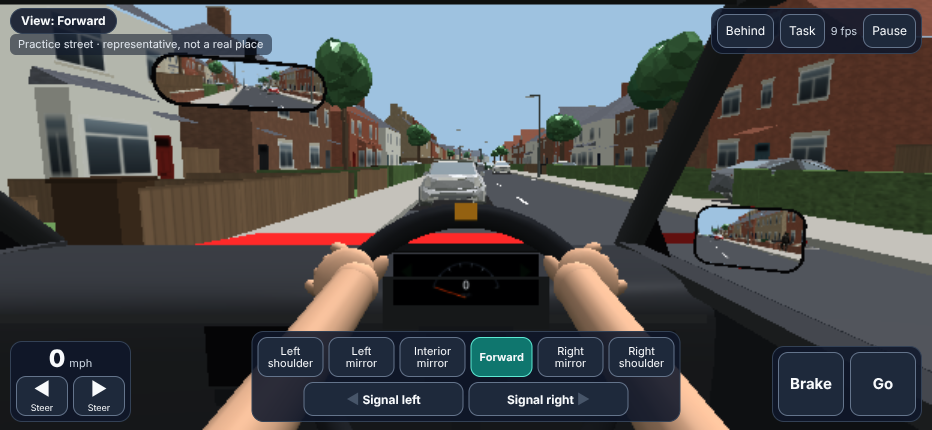
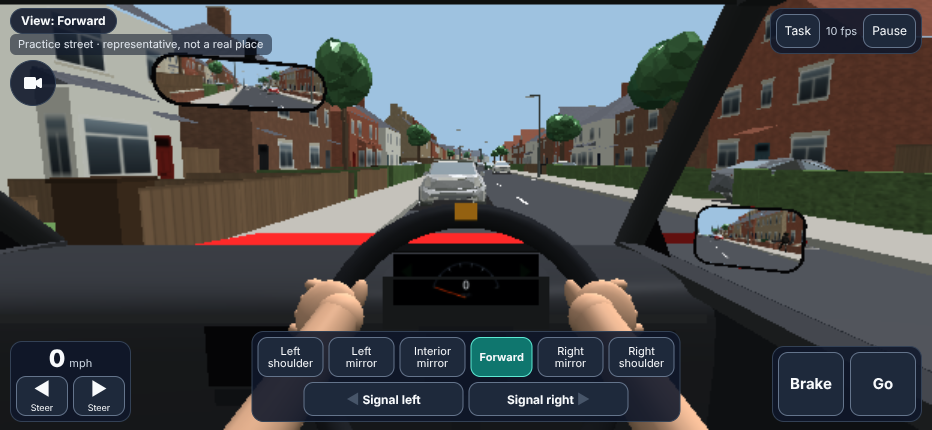
Hands low on the wheel sides; steer the car's own wheel from the seat
- Hands at about twenty to three, forearms rising from the bottom corners
  of the picture, as in a driving game's cockpit view.
- In the driver's seat there is no separate on-screen wheel: an
  invisible grab area lies over the car's steering wheel as drawn (placed
  each frame) and turning it steers. The separate wheel appears only in
  the behind-the-car view. G17 checks both.

Claude-Session: https://claude.ai/code/session_01QSE7HPWAFN7h7s95husGEt

diff --git a/src/app/main.ts b/src/app/main.ts
@@ -30,7 +30,7 @@ import {ROAD_USER_CAR_MODELS} from '../assets/carSpecs';
 import {BUS_MODELS,PANEL_VAN,type CarModelId} from '../assets/carSpecs';
 import {RouteSummary} from '../assessment/routeSummary';
 import {ViewPracticeSummary} from '../assessment/viewPractice';
-import {STEERING_RATIO,buildCockpit} from '../cockpit/cockpitModel';
+import {STEERING_RATIO,WHEEL_RIM,buildCockpit} from '../cockpit/cockpitModel';
 import {ALL_MIRRORS,Mirror} from '../cockpit/mirror';
 import {ObservationTracker,type ObservationSource,type ObservationTarget} from '../cockpit/observation';
 import {DriverHead} from '../cockpit/seat';
@@ -1181,30 +1181,45 @@ export async function boot():Promise<void>{
   byId('hud-ind-right').addEventListener('click',()=>onAction('indicator-right'));
   byId('hud-task-toggle').addEventListener('click',()=>hud.toggleTask());
   byId('hud-tilt-centre').addEventListener('click',()=>tilt.calibrate());
-  // On-screen wheel: the finger's angle around the wheel's centre turns it (one finger; others ignored).
+  // On-screen steering: the finger's angle around the wheel's centre turns it (one finger; others ignored). In the
+  // driver's seat the grab area lies over the car's own steering wheel; behind the car, the separate wheel is used.
   const wheelEl=byId('touch-wheel');
+  const wheelGrab=byId('wheel-grab');
   let wheelPointer:number|null=null;
-  const wheelAngle=(event:PointerEvent)=>{
-    const r=wheelEl.getBoundingClientRect();
-    return screenAngle(r.left+r.width/2,r.top+r.height/2,event.clientX,event.clientY);
+  for(const el of [wheelEl,wheelGrab]){
+    const angle=(event:PointerEvent)=>{
+      const r=el.getBoundingClientRect();
+      return screenAngle(r.left+r.width/2,r.top+r.height/2,event.clientX,event.clientY);
+    };
+    el.addEventListener('pointerdown',event=>{
+      event.preventDefault();
+      if(wheelPointer!==null)return;
+      wheelPointer=event.pointerId;
+      el.setPointerCapture(event.pointerId);
+      touchWheel.grab(angle(event));
+      wheelEl.classList.add('held');
+    });
+    el.addEventListener('pointermove',event=>{if(event.pointerId===wheelPointer)touchWheel.move(angle(event))});
+    const release=(event:PointerEvent)=>{
+      if(event.pointerId!==wheelPointer)return;
+      wheelPointer=null;
+      touchWheel.release();
+      wheelEl.classList.remove('held');
+    };
+    el.addEventListener('pointerup',release);
+    el.addEventListener('pointercancel',release);
+  }
+  /** Places the grab area over the car's steering wheel as drawn (its rim's screen circle, a little enlarged). */
+  const placeWheelGrab=()=>{
+    const m=cockpit.wheel.getWorldMatrix();
+    const view=camera.viewport.toGlobal(engine.getRenderWidth(),engine.getRenderHeight());
+    const project=(x:number,z:number)=>Vector3.Project(Vector3.TransformCoordinates(new Vector3(x,0,z),m),Matrix.IdentityReadOnly,scene.getTransformMatrix(),view);
+    const c=project(0,0),top=project(0,-WHEEL_RIM),side=project(WHEEL_RIM,0);
+    const k=canvas.clientWidth/engine.getRenderWidth();
+    const r=Math.max(Math.hypot(top.x-c.x,top.y-c.y),Math.hypot(side.x-c.x,side.y-c.y))*k*1.15;
+    const st=wheelGrab.style;
+    st.left=`${(c.x*k-r).toFixed(0)}px`;st.top=`${(c.y*k-r).toFixed(0)}px`;st.width=st.height=`${(2*r).toFixed(0)}px`;
   };
-  wheelEl.addEventListener('pointerdown',event=>{
-    event.preventDefault();
-    if(wheelPointer!==null)return;
-    wheelPointer=event.pointerId;
-    wheelEl.setPointerCapture(event.pointerId);
-    touchWheel.grab(wheelAngle(event));
-    wheelEl.classList.add('held');
-  });
-  wheelEl.addEventListener('pointermove',event=>{if(event.pointerId===wheelPointer)touchWheel.move(wheelAngle(event))});
-  const releaseWheel=(event:PointerEvent)=>{
-    if(event.pointerId!==wheelPointer)return;
-    wheelPointer=null;
-    touchWheel.release();
-    wheelEl.classList.remove('held');
-  };
-  wheelEl.addEventListener('pointerup',releaseWheel);
-  wheelEl.addEventListener('pointercancel',releaseWheel);
   const wheelRim=wheelEl.querySelector<HTMLElement>('.tw-rim')!;
   for(const button of document.querySelectorAll<HTMLButtonElement>('[data-hold]')){
     const control=button.dataset.hold as 'throttle'|'brake'|'left'|'right';
@@ -1286,6 +1301,7 @@ export async function boot():Promise<void>{
   const setBehind=(on:boolean)=>{
     behind=on;
     behindButton.setAttribute('aria-pressed',String(on));
+    document.body.classList.toggle('behind',on);
     behindButton.setAttribute('aria-label',on?'Camera: back to the driver\'s seat':'Camera: switch to behind the car');
     const label=byId('hud-view-label');
     if(on){label.textContent='View: Behind the car (not a driver\'s view)';label.classList.add('behind')}
@@ -1353,7 +1369,9 @@ export async function boot():Promise<void>{
     hudWheel.style.transform=wheelTurn;
     if(steeringMode==='wheel'){
       wheelRim.style.transform=`rotate(${touchWheel.turnDeg.toFixed(1)}deg)`;
-      wheelEl.setAttribute('aria-valuenow',String(Math.round(touchWheel.turnDeg/2.7)));
+      const value=String(Math.round(touchWheel.turnDeg/2.7));
+      wheelEl.setAttribute('aria-valuenow',value);wheelGrab.setAttribute('aria-valuenow',value);
+      if(!behind)placeWheelGrab();
     }
     // Turning right turns the wheel clockwise as the driver sees it.
     cockpit.setWheel(vehicle.state.steerAngle*STEERING_RATIO);

diff --git a/src/cockpit/cockpitModel.ts b/src/cockpit/cockpitModel.ts
@@ -26,8 +26,10 @@ export const STEERING_RATIO=4;
 
 /** How far (radians of wheel turn) the hands follow the wheel before they feed it through (pull-push). */
 export const HANDS_FOLLOW=1.2;
-/** Where the hands hold the rim when the wheel is centred: ten to two (60° either side of the top), in view above the dashboard edge. */
-const GRIP=Math.PI/3;
+/** Where the hands hold the rim when the wheel is centred: about twenty to three (75° either side of the top), low on the sides of the wheel with the forearms rising from below, as in a driving game's cockpit view. */
+const GRIP=5*Math.PI/12;
+/** Steering-wheel rim radius (metres). */
+export const WHEEL_RIM=.19;
 
 export interface Cockpit{
   root:TransformNode;
@@ -165,7 +167,7 @@ export function buildCockpit(scene:Scene,vehicleNode:TransformNode,seat:SeatConf
   column.parent=root;
   const wheel=new TransformNode('steering-wheel',scene);
   wheel.parent=column;
-  const RIM=.19;
+  const RIM=WHEEL_RIM;
   const rim=CreateTorus('steering-rim',{diameter:2*RIM,thickness:.036,tessellation:40},scene);
   rim.material=trim;
   rim.parent=wheel;
@@ -183,7 +185,7 @@ export function buildCockpit(scene:Scene,vehicleNode:TransformNode,seat:SeatConf
   part('steering-hub-pad',.1,.012,.07,.012,glossBlack,.04);
   part('steering-top-mark',.03,.04,.024,-RIM,mat('steering-mark',new Color3(.85,.55,.1)));
 
-  // The driver's hands on the rim at ten to two: the back of each hand towards the driver, knuckles round the
+  // The driver's hands on the rim at twenty to three: the back of each hand towards the driver, knuckles round the
   // outside of the rim, thumb along the inside; bare forearms (sleeves pushed up). The hands turn with the wheel up to
   // HANDS_FOLLOW, then hold there as the wheel is fed through them (pull-push steering).
   const skin=mat('driver-skin',new Color3(.8,.62,.5));
@@ -198,7 +200,7 @@ export function buildCockpit(scene:Scene,vehicleNode:TransformNode,seat:SeatConf
   const hands=[-1,1].map(side=>{
     const hand=new TransformNode(`driver-hand-${side<0?'left':'right'}`,scene);
     hand.parent=handRing;
-    // On the rim, ±60° from the top; local X along the rim, +Z towards the centre, +Y towards the driver.
+    // On the rim, ±75° from the top; local X along the rim, +Z towards the centre, +Y towards the driver.
     const phi=side*GRIP;
     hand.position.set(RIM*Math.sin(phi),0,-RIM*Math.cos(phi));
     hand.rotation.y=-phi;
@@ -243,9 +245,10 @@ export function buildCockpit(scene:Scene,vehicleNode:TransformNode,seat:SeatConf
     const toRoot=root.getWorldMatrix().clone().invert();
     for(const {side,upper,fore} of arms){
       const hand=Vector3.TransformCoordinates(wrists[side<0?0:1]!.getAbsolutePosition(),toRoot);
-      const shoulder=new Vector3(eye.x+side*.19,eye.y-.22,eye.z+.1);
-      // Elbow: below and outside the line from shoulder to wrist, bent towards the body.
-      const elbow=shoulder.add(hand).scale(.5).add(new Vector3(side*.08,-.14,.04));
+      // Shoulders low and wide of the eye, elbows down by the sides: the forearms rise into view from the bottom
+      // corners of the picture to the wheel.
+      const shoulder=new Vector3(eye.x+side*.23,eye.y-.3,eye.z+.12);
+      const elbow=shoulder.add(hand).scale(.5).add(new Vector3(side*.12,-.2,.06));
       place(upper,shoulder,elbow);
       place(fore,elbow,hand);
     }

diff --git a/tests/browser/g17-wheel-hands-behind.spec.ts b/tests/browser/g17-wheel-hands-behind.spec.ts
@@ -15,13 +15,18 @@ test('G17: the on-screen wheel steers and the hands follow it; the behind-the-ca
   await page.click('#start-practice');
   await expect.poll(()=>read(page,'session()'),{timeout:120_000}).toBe('running');
   expect(await read(page,'steering()')).toBe('wheel');
-  // The wheel replaces the steer buttons.
-  await expect(page.locator('#touch-wheel')).toBeVisible();
+  // In the driver's seat the car's own wheel is turned: a grab area over it, and no separate wheel on screen.
+  await expect(page.locator('#wheel-grab')).toBeVisible();
+  await expect(page.locator('#touch-wheel')).toBeHidden();
   await expect(page.locator('#steer-buttons')).toBeHidden();
   expect(await read(page,'hands()')).toBeCloseTo(0,3);
 
-  // Drag clockwise round the wheel (a third of a turn): the car's wheels turn right, and so do the hands.
-  const box=(await page.locator('#touch-wheel').boundingBox())!;
+  // The grab area lies over the steering wheel as drawn, in the lower middle of the picture.
+  const box=(await page.locator('#wheel-grab').boundingBox())!;
+  const vw=page.viewportSize()!;
+  expect(Math.abs(box.x+box.width/2-vw.width/2)).toBeLessThan(vw.width*.15);
+  expect(box.y+box.height/2).toBeGreaterThan(vw.height*.5);
+  // Drag clockwise round the car's wheel from its top (a third of a turn): the car's wheels turn right, and so do the hands.
   const cx=box.x+box.width/2,cy=box.y+box.height/2,r=box.width/2-8;
   await page.mouse.move(cx,cy-r);
   await page.mouse.down();
@@ -37,6 +42,9 @@ test('G17: the on-screen wheel steers and the hands follow it; the behind-the-ca
   const seat=await read(page,'camera()');
   await page.click('#hud-behind');
   await expect(page.locator('#hud-view-label')).toHaveText(/Behind the car \(not a driver's view\)/);
+  // Behind the car its own wheel is out of sight, so the separate on-screen wheel appears.
+  await expect(page.locator('#touch-wheel')).toBeVisible();
+  await expect(page.locator('#wheel-grab')).toBeHidden();
   await expect.poll(async()=>(await read(page,'behind()')).carModel,{timeout:30_000}).toBe(true);
   const out=await read(page,'camera()');
   expect(out.position[1]).toBeGreaterThan(seat.position[1]+1.5);

diff --git a/sim/index.html b/sim/index.html
@@ -112,7 +112,11 @@ body.tilt #hud-tilt{display:flex}
 body:not(.steer-buttons) #steer-buttons{display:none}
 /* On-screen steering wheel: drag round it with a thumb. */
 #touch-wheel{display:none;width:118px;height:118px;touch-action:none;cursor:grab}
-body.wheel-steer #touch-wheel{display:block}
+/* In the driver's seat the car's own steering wheel is turned (an invisible grab area over it); the separate wheel
+   appears only in the behind-the-car view, where the car's wheel is out of sight. */
+body.wheel-steer.behind #touch-wheel{display:block}
+#wheel-grab{display:none;position:absolute;border-radius:50%;touch-action:none;pointer-events:auto;cursor:grab}
+body.wheel-steer:not(.behind) #wheel-grab{display:block}
 #touch-wheel .tw-rim{width:100%;height:100%;box-sizing:border-box;border:13px solid #334155;border-radius:50%;position:relative;box-shadow:inset 0 0 0 2px #64748b,0 0 0 2px #64748b}
 #touch-wheel .tw-rim>span{position:absolute;left:50%;top:-13px;width:10px;height:13px;margin-left:-5px;background:#f59e0b;border-radius:3px}
 #touch-wheel .tw-spoke{position:absolute;left:-2px;right:-2px;top:50%;height:9px;margin-top:-4px;background:#334155}
@@ -293,6 +297,7 @@ body.stationary [data-hold="throttle"]{opacity:.4}
 </section>
 
 <div id="hud" hidden>
+  <div id="wheel-grab" role="slider" aria-label="Steering wheel: drag round it to steer" aria-valuemin="-100" aria-valuemax="100" aria-valuenow="0"></div>
   <div id="hud-status"></div>
   <div id="hud-credit" hidden></div>
   <div id="hud-task" role="status" aria-live="polite" hidden></div>

diff --git a/docs/CONTROLS-AND-VIEWS.md b/docs/CONTROLS-AND-VIEWS.md
@@ -8,12 +8,12 @@ What a learner can use on the phone screen, in the phone headset viewer and on a
 | --- | --- | --- |
 | Assisted | Keeps the car on the lane path. You control speed, signals and observations. | Default on phones |
 | Tilt the phone | Turn the phone in landscape like a steering wheel. The Steer buttons stay on screen as a fallback. | Phones with a motion sensor, standalone link only |
-| **On-screen wheel** (new) | Drag round the wheel at the bottom left with a thumb. It goes past half a turn, up to 270° (full lock). Let go and it returns to the centre. Steer keys still override it. | Phone screen |
+| **On-screen wheel** | In the driver's seat, drag round the car's own steering wheel (there is no separate wheel on screen). Behind the car, a separate wheel appears at the bottom left. It goes past half a turn, up to 270° (full lock). Let go and it returns to the centre. Steer keys still override it. | Phone screen |
 | Steer buttons or keys | ◀ ▶ buttons, or A/D or the arrow keys. A tap gives a small correction; holding builds up to full lock. | Default on computers |
 
 In the phone headset viewer, steering is assisted, or done with the controller's stick.
 
-**The driver's hands** hold the wheel at ten to two. They turn with it up to about 70°, then stay there as the wheel is
+**The driver's hands** hold the wheel low on its sides (about twenty to three), with the forearms rising from the bottom corners of the picture, as in a driving game's cockpit view (2026-10-21; previously ten to two). They turn with it up to about 70°, then stay there as the wheel is
 fed through them (pull-push). Both the wheel and the hands follow the car's actual steering, whichever option is used.
 
 The hands have knuckles and fingers wrapped round the rim, a thumb along the inside and bare forearms. Since
